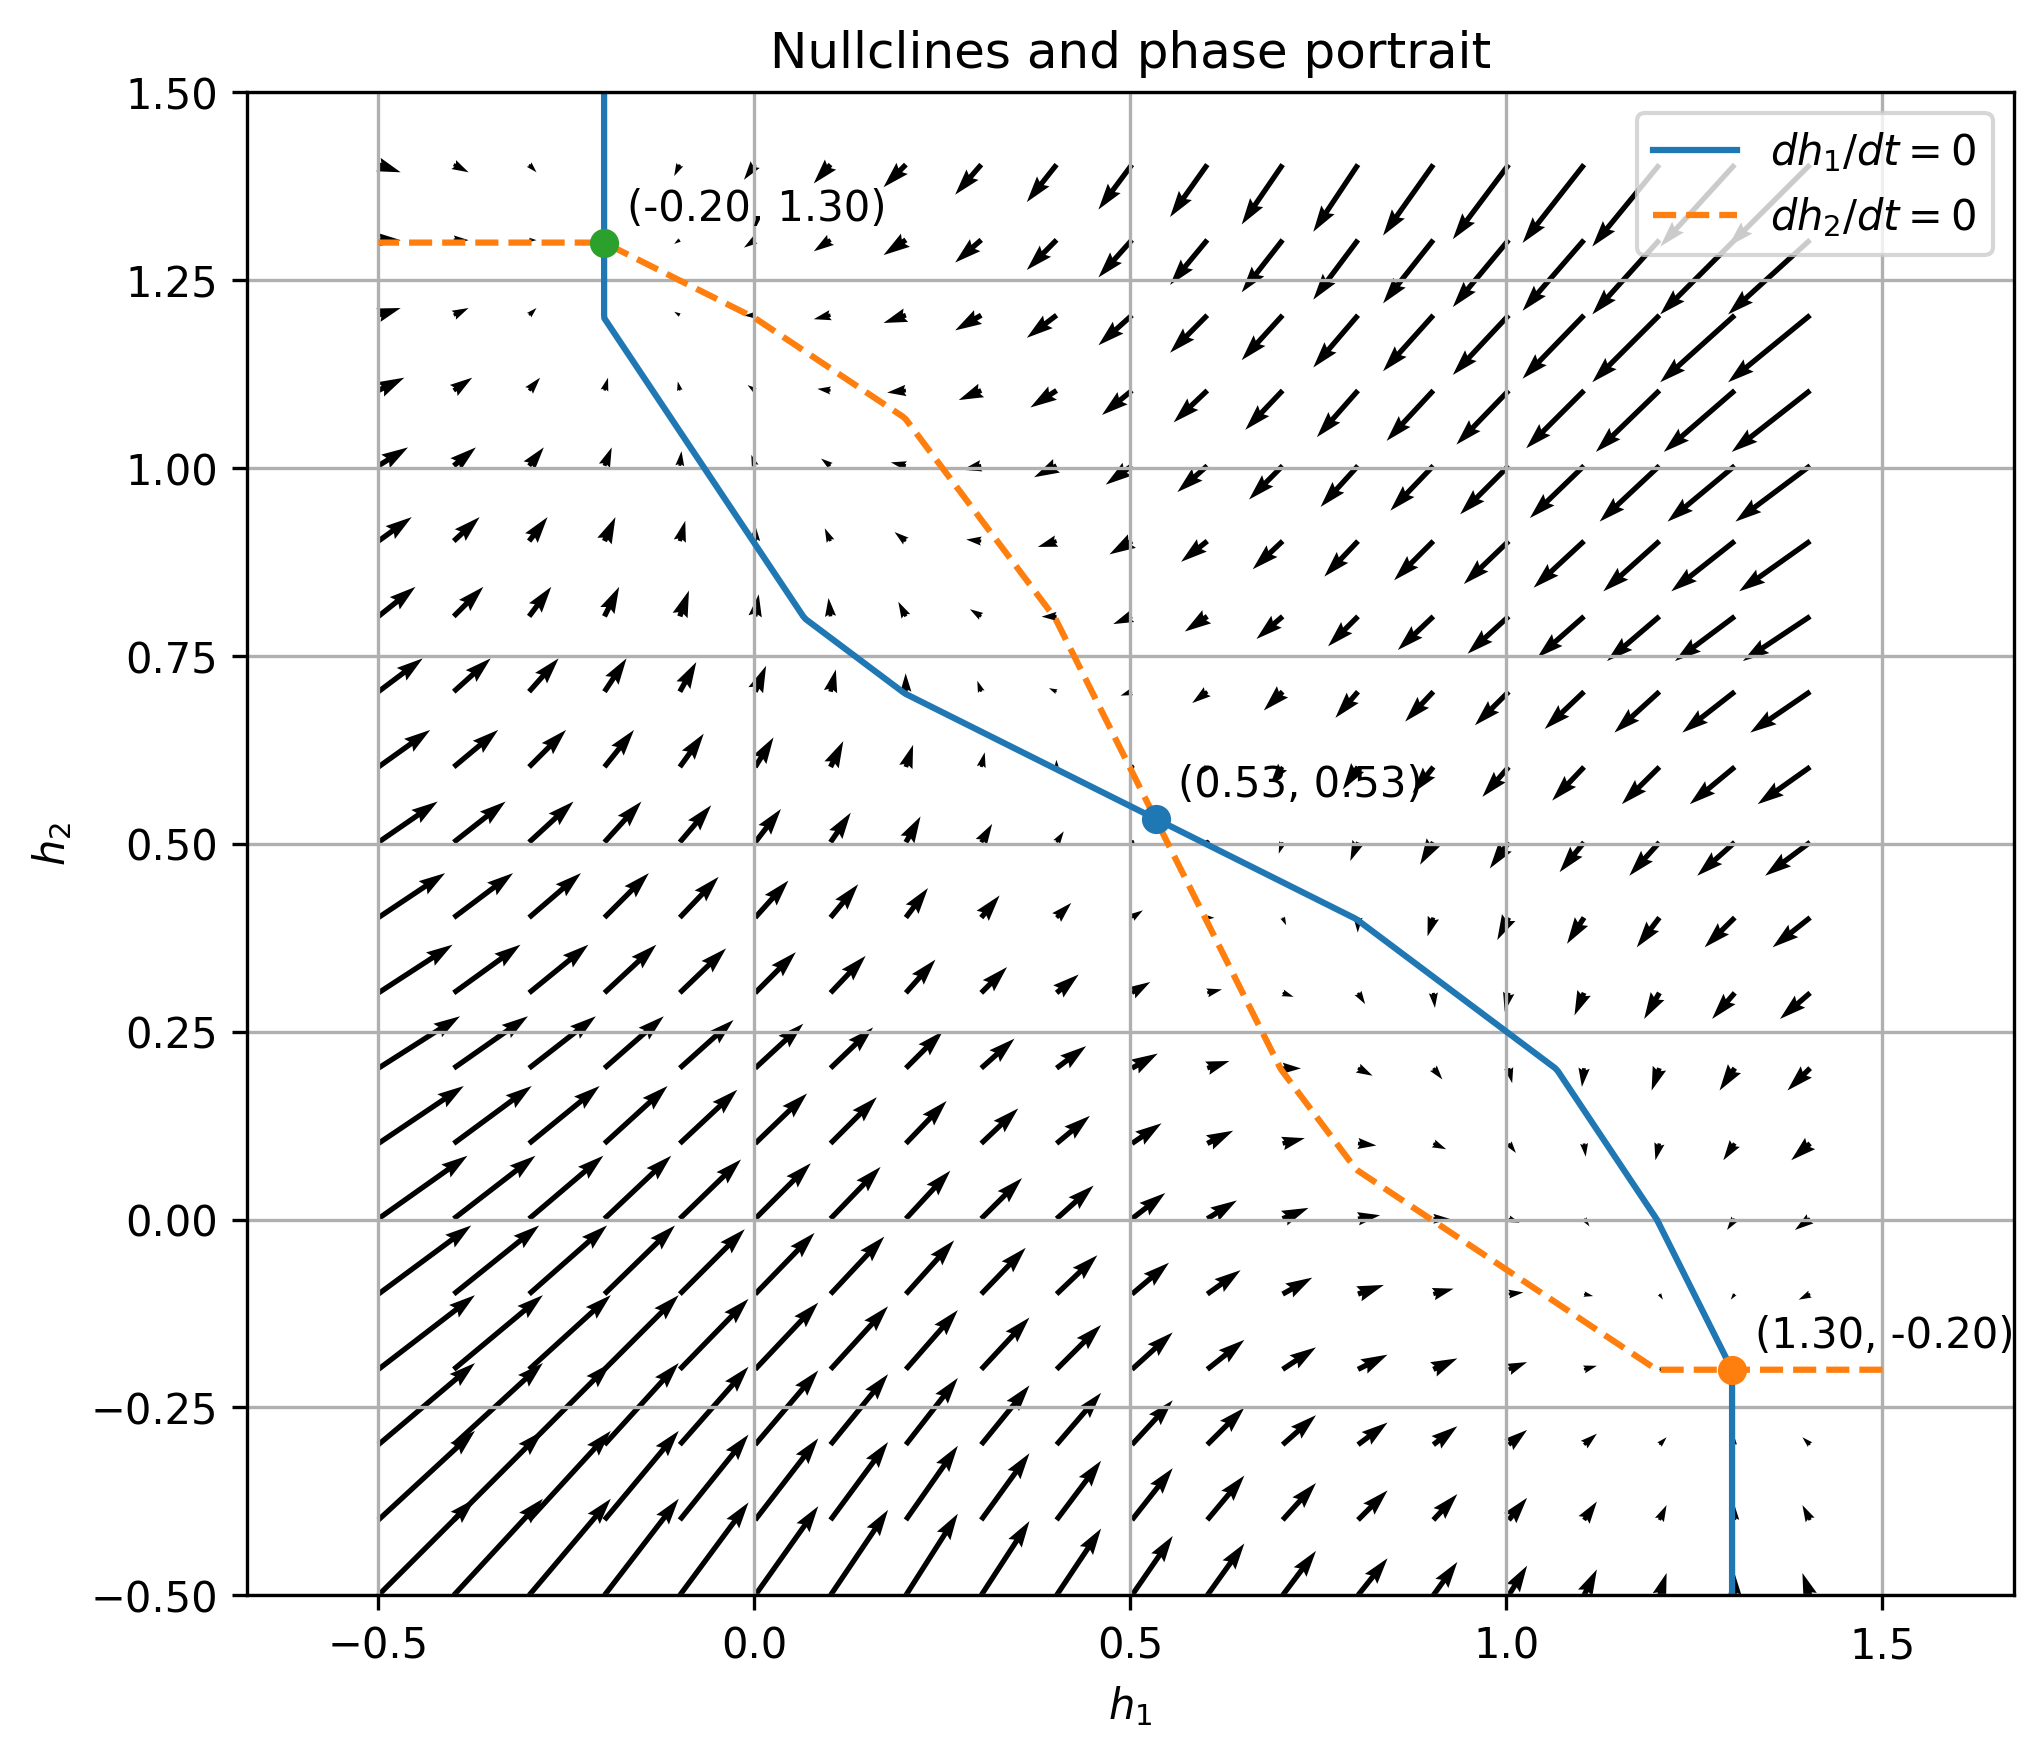
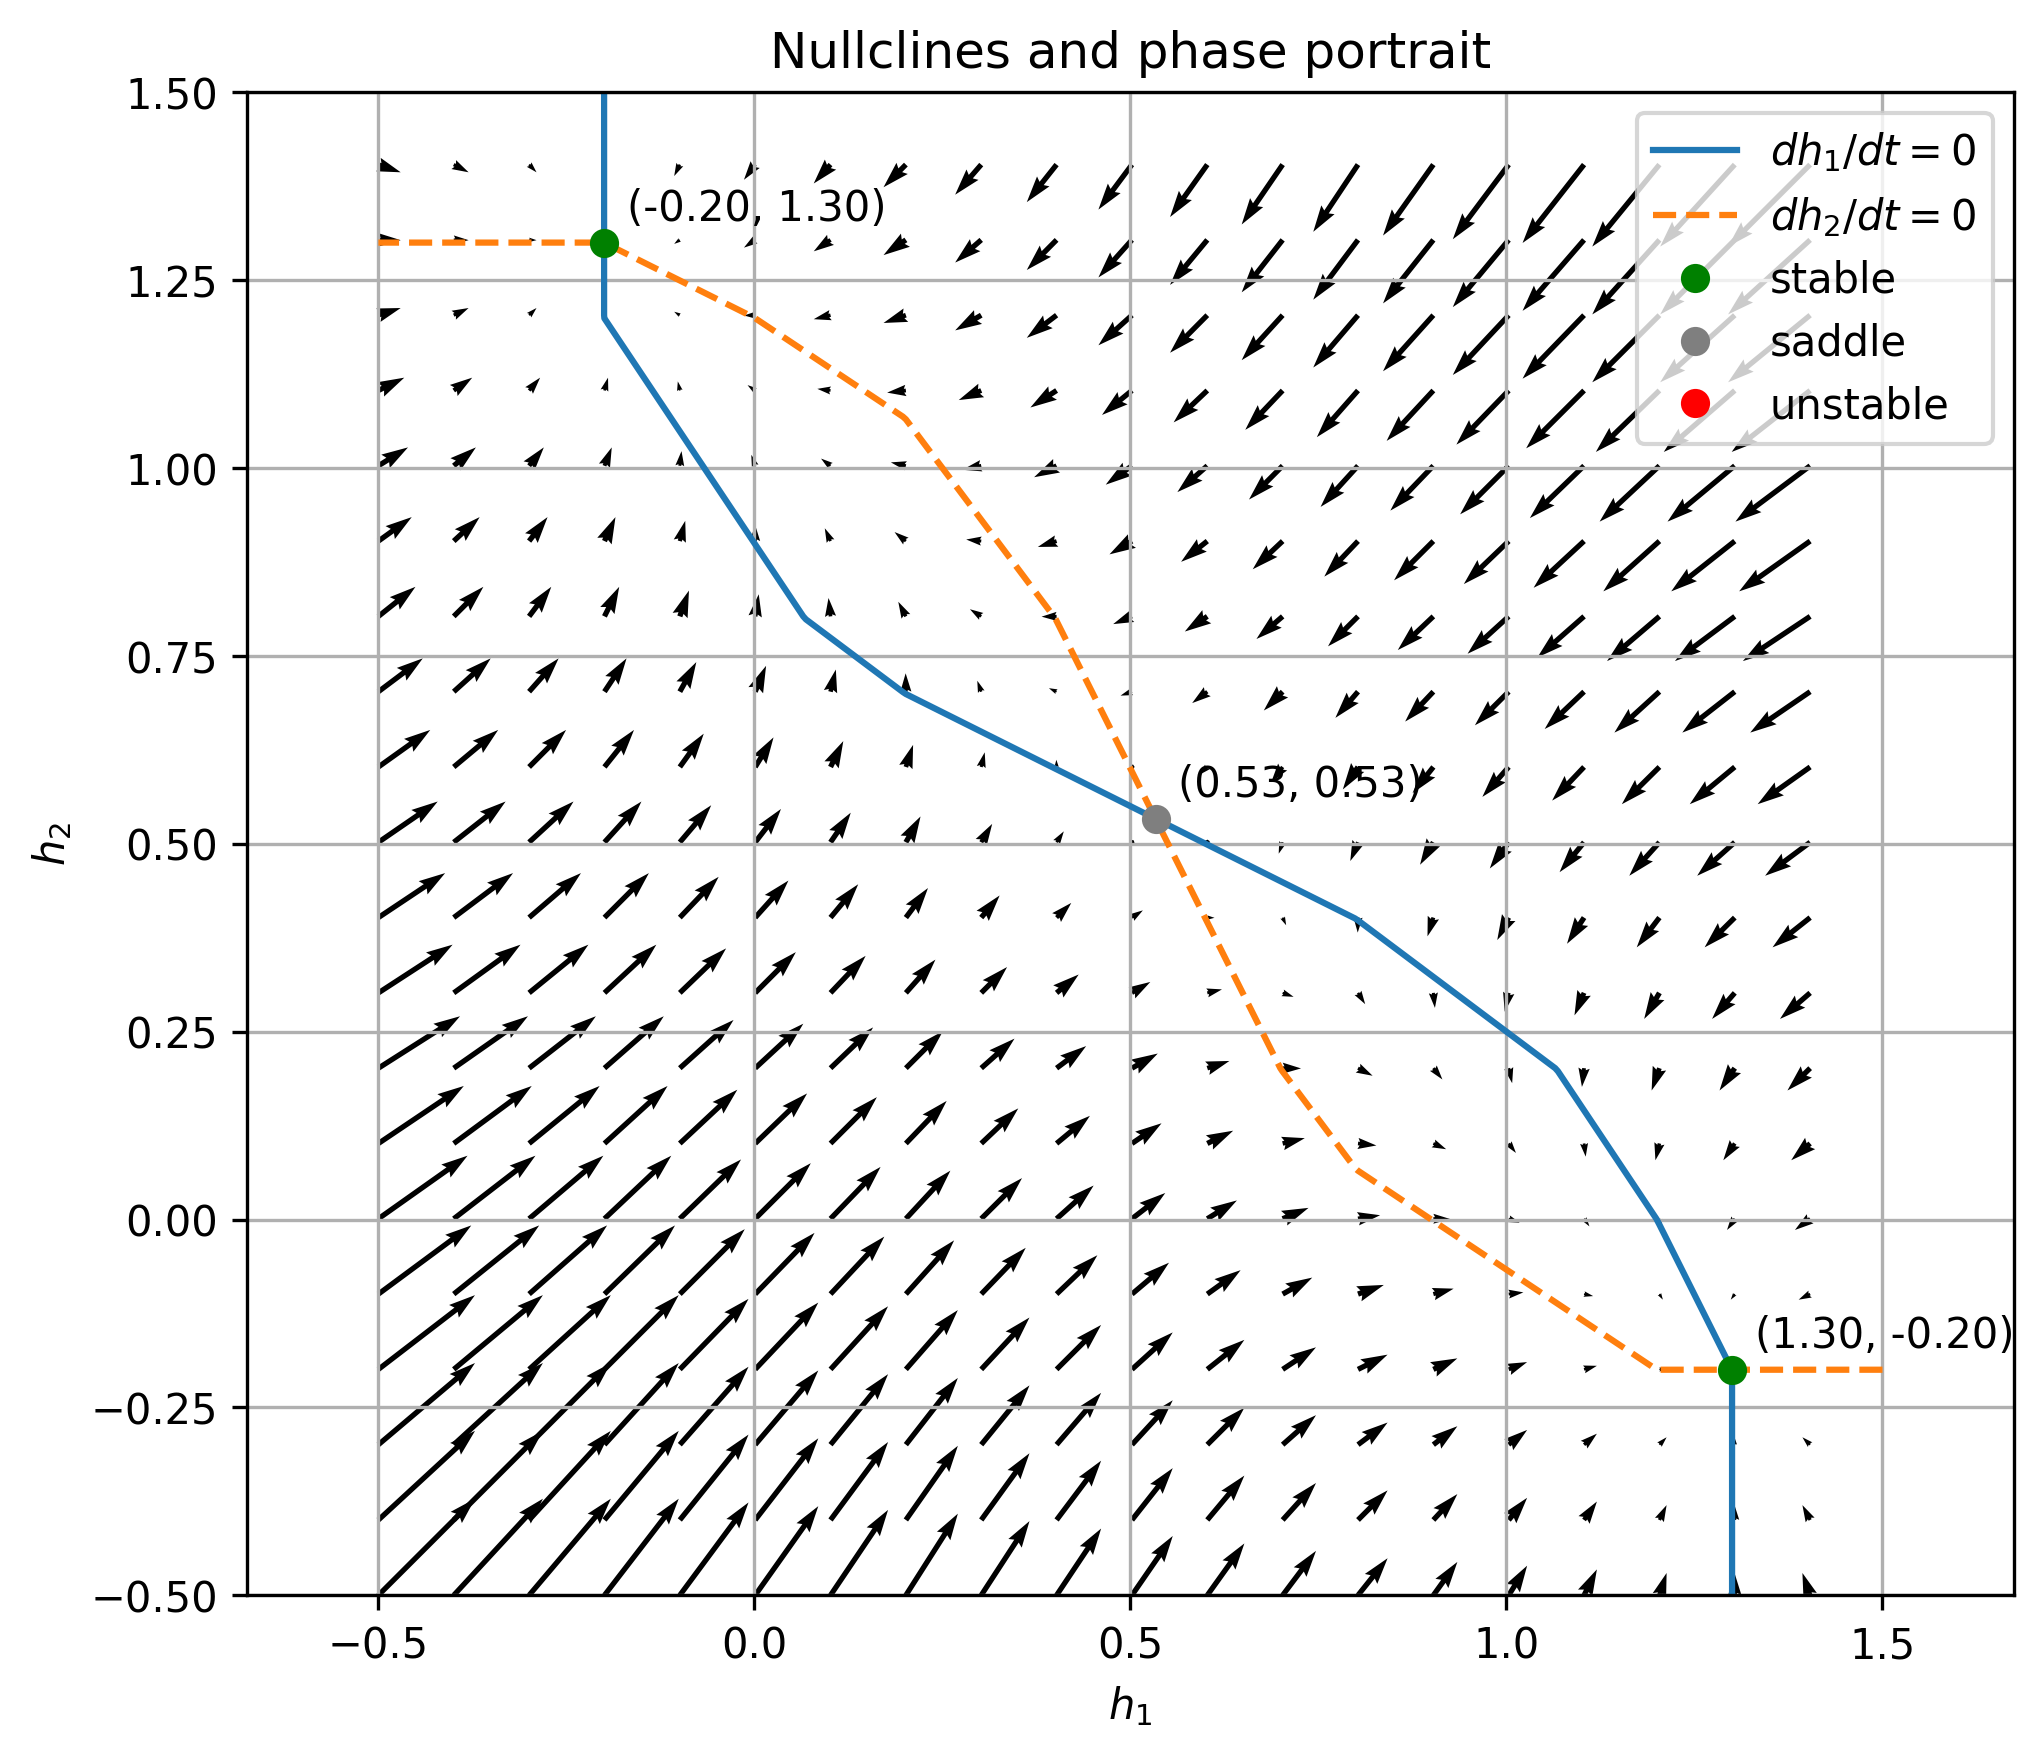
new file:   2_1/README.md 	modified:   2_1/phase_portrait.png 	modified:   2_1/q1&2.py

diff --git a/2_1/q1&2.py b/2_1/q1&2.py
@@ -39,6 +39,30 @@ def g_arr(h):
         )
     )
 
+def g_prime(h):
+    """分段导数 g'(h)：用于雅可比与稳定性分析"""
+    if h < -0.2:
+        return 0.0
+    elif h < 0.2:
+        return 0.5
+    elif h < 0.8:
+        return 1.0
+    elif h < 1.2:
+        return 0.5
+    else:
+        return 0.0
+
+def jacobian(h_vec):
+    """在状态 h 处的雅可比矩阵 J(h)"""
+    h1, h2 = h_vec
+    gp1 = g_prime(h1)
+    gp2 = g_prime(h2)
+    j11 = -1.0 + (wEE - alpha) * gp1
+    j12 = -alpha * gp2
+    j21 = -alpha * gp1
+    j22 = -1.0 + (wEE - alpha) * gp2
+    return np.array([[j11, j12], [j21, j22]])
+
 def rhs(h_vec):
     """系统右端：dh/dt = f(h)"""
     h1, h2 = h_vec
@@ -70,6 +94,26 @@ for s in sols:
     print(s)
 
 # ----------------------
+# 1.1 固定点稳定性分类
+# ----------------------
+def classify_equilibrium(h_vec):
+    J = jacobian(h_vec)
+    eigvals = np.linalg.eigvals(J)
+    if np.all(np.real(eigvals) < 0):
+        cls = 'stable'
+    elif np.any(np.real(eigvals) > 0) and np.any(np.real(eigvals) < 0):
+        cls = 'saddle'
+    else:
+        cls = 'unstable'
+    return cls, eigvals
+
+classes = []
+for s in sols:
+    cls, eigs = classify_equilibrium(s)
+    classes.append((s, cls, eigs))
+    print(f"平衡点 {s} -> {cls}, 特征值: {eigs}")
+
+# ----------------------
 # 2. 画零斜线与相图
 # ----------------------
 # 网格范围与分辨率（可调大以获得更平滑的等高线）
@@ -88,17 +132,22 @@ plt.figure(figsize=(7, 6))
 cs1 = plt.contour(H1, H2, DH1, levels=[0.0], colors='C0', linewidths=1.5)
 cs2 = plt.contour(H1, H2, DH2, levels=[0.0], colors='C1', linestyles='--', linewidths=1.5)
 
-# 向量场箭头（略微降低密度：调大抽稀步长）
+# 向量场箭头
 step = max(20, N // 20)
 plt.quiver(H1[::step, ::step], H2[::step, ::step],
            DH1[::step, ::step], DH2[::step, ::step],
            angles='xy')
 
-# 平衡点用点标出来
-for s in sols:
-    plt.plot(s[0], s[1], 'o')
-    plt.text(s[0] + 0.03, s[1] + 0.03,
-             f'({s[0]:.2f}, {s[1]:.2f})')
+# 平衡点用不同标记/颜色显示稳定性
+marker_styles = {
+    'stable': dict(marker='o', color='green'),
+    'saddle': dict(marker='o', color='C7'),
+    'unstable': dict(marker='o', color='red'),
+}
+for s, cls, eigs in classes:
+    style = marker_styles.get(cls, dict(marker='o', color='black'))
+    plt.plot(s[0], s[1], linestyle='None', **style)
+    plt.text(s[0] + 0.03, s[1] + 0.03, f'({s[0]:.2f}, {s[1]:.2f})')
 
 plt.xlabel(r'$h_1$')
 plt.ylabel(r'$h_2$')
@@ -107,6 +156,9 @@ plt.title('Nullclines and phase portrait')
 legend_handles = [
     Line2D([0], [0], color='C0', lw=1.5, label=r'$dh_1/dt=0$'),
     Line2D([0], [0], color='C1', lw=1.5, linestyle='--', label=r'$dh_2/dt=0$'),
+    Line2D([0], [0], marker='o', color='green', linestyle='None', label='stable'),
+    Line2D([0], [0], marker='o', color='C7', linestyle='None', label='saddle'),
+    Line2D([0], [0], marker='o', color='red', linestyle='None', label='unstable'),
 ]
 plt.legend(handles=legend_handles)
 plt.axis('equal')

diff --git a/2_1/README.md b/2_1/README.md
@@ -1,0 +1,49 @@
+# 2-1
+
+## 建模对象
+
+兴奋性神经元群动力学：这是一个二维耦合的互相抑制/自抑制系统，形式与 Wilson–Cowan 模型相近。g(h) 是分段饱和的激活函数，代表群体发放率的非线性响应。
+
+## 求解方式
+
+### 公式
+
+$$
+\begin{align}
+\frac{dh_{E,1}}{dt} = -h_{E,1} + (w_{EE} - \alpha)g_E(h_{E,1}) - \alpha g_E(h_{E_2}) + h_1^{ext} \\
+\frac{dh_{E,2}}{dt} = -h_{E,2} + (w_{EE} - \alpha)g_E(h_{E,2}) - \alpha g_E(h_{E_1}) + h_2^{ext} \\
+
+\end{align}
+$$
+
+### 固定点求解
+
+令
+$$
+\begin{align}
+\frac{dh_1}{dt} = 0 \\
+\frac{dh_2}{dt} = 0 \\
+\end{align}
+$$
+
+使用数值根求解（fsolve）配合多初值去重，得到可能的多个平衡点
+
+### 零斜线与相图
+
+零斜线交点即为固定点，叠加矢量场以判断流向和吸引子结构
+
+### 稳定性判断
+
+雅可比矩阵
+$J=\begin{pmatrix}
+-1 + (w_{EE}-\alpha)\,g'(h_1) & -\alpha\,g'(h_2) \\
+-\alpha\,g'(h_1) & -1 + (w_{EE}-\alpha)\,g'(h_2)
+\end{pmatrix}$
+
+$g'(h)$取对应分段的斜率，通过特征值符合判断稳定性（负实部为稳定）
+
+**相图中用颜色区分稳定性：**
+
+- 绿色圆点：稳定（吸引子）
+- 灰色圆点：鞍点
+- 红色圆点：不稳定
